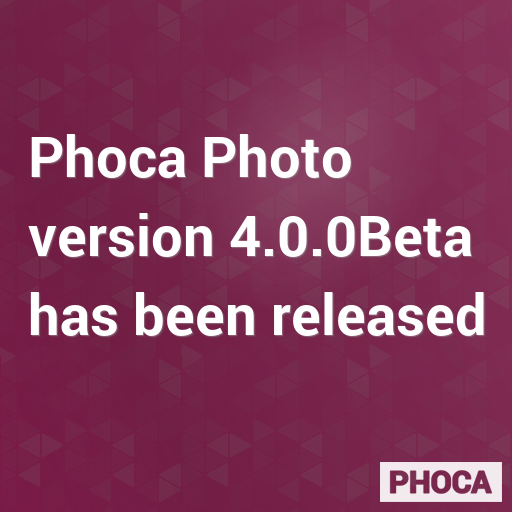
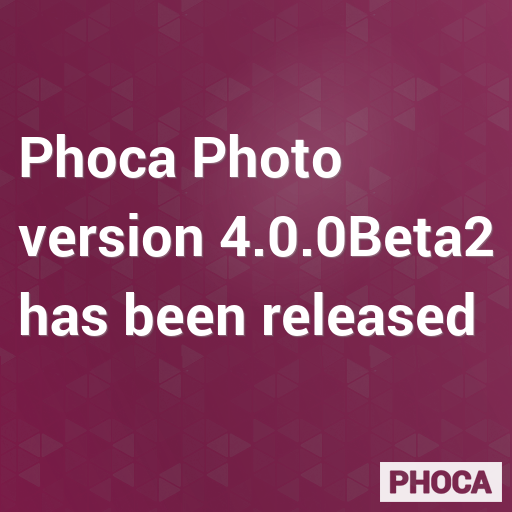
4.0.0Beta2
4.0.0Beta2

Changed region(s): [[0.0312, 0.4062, 0.9688, 0.5312], [0.0312, 0.5625, 0.9688, 0.6562], [0.0312, 0.25, 0.6875, 0.375]]

diff --git a/admin/views/phocaphotocp/tmpl/default.php b/admin/views/phocaphotocp/tmpl/default.php
@@ -20,7 +20,13 @@ echo '<div class="ph-left-cp">';
 echo '<div class="ph-cp-item-box">';
 $link	= 'index.php?option='.$this->t['o'].'&view=';
 foreach ($this->views as $k => $v) {
-	$linkV	= $link . $this->t['c'] . $k;
+
+	if ($k == 'phocagallery') {
+		$linkV	= 'index.php?option=com_phocagallery';
+	} else {
+		$linkV	= $link . $this->t['c'] . $k;
+	}
+
 	echo $r->quickIconButton( $linkV, Text::_($v[0]), $v[1], $v[2]);
 }
 echo '</div>';

diff --git a/README.MD b/README.MD
@@ -60,7 +60,7 @@ Phoca Photo is Joomla! CMS component - it displays images on Joomla! site. It in
 
 ## Version (Joomla! 4.x)
 
-4.0.0Beta
+4.0.0Beta2
 
 
 
